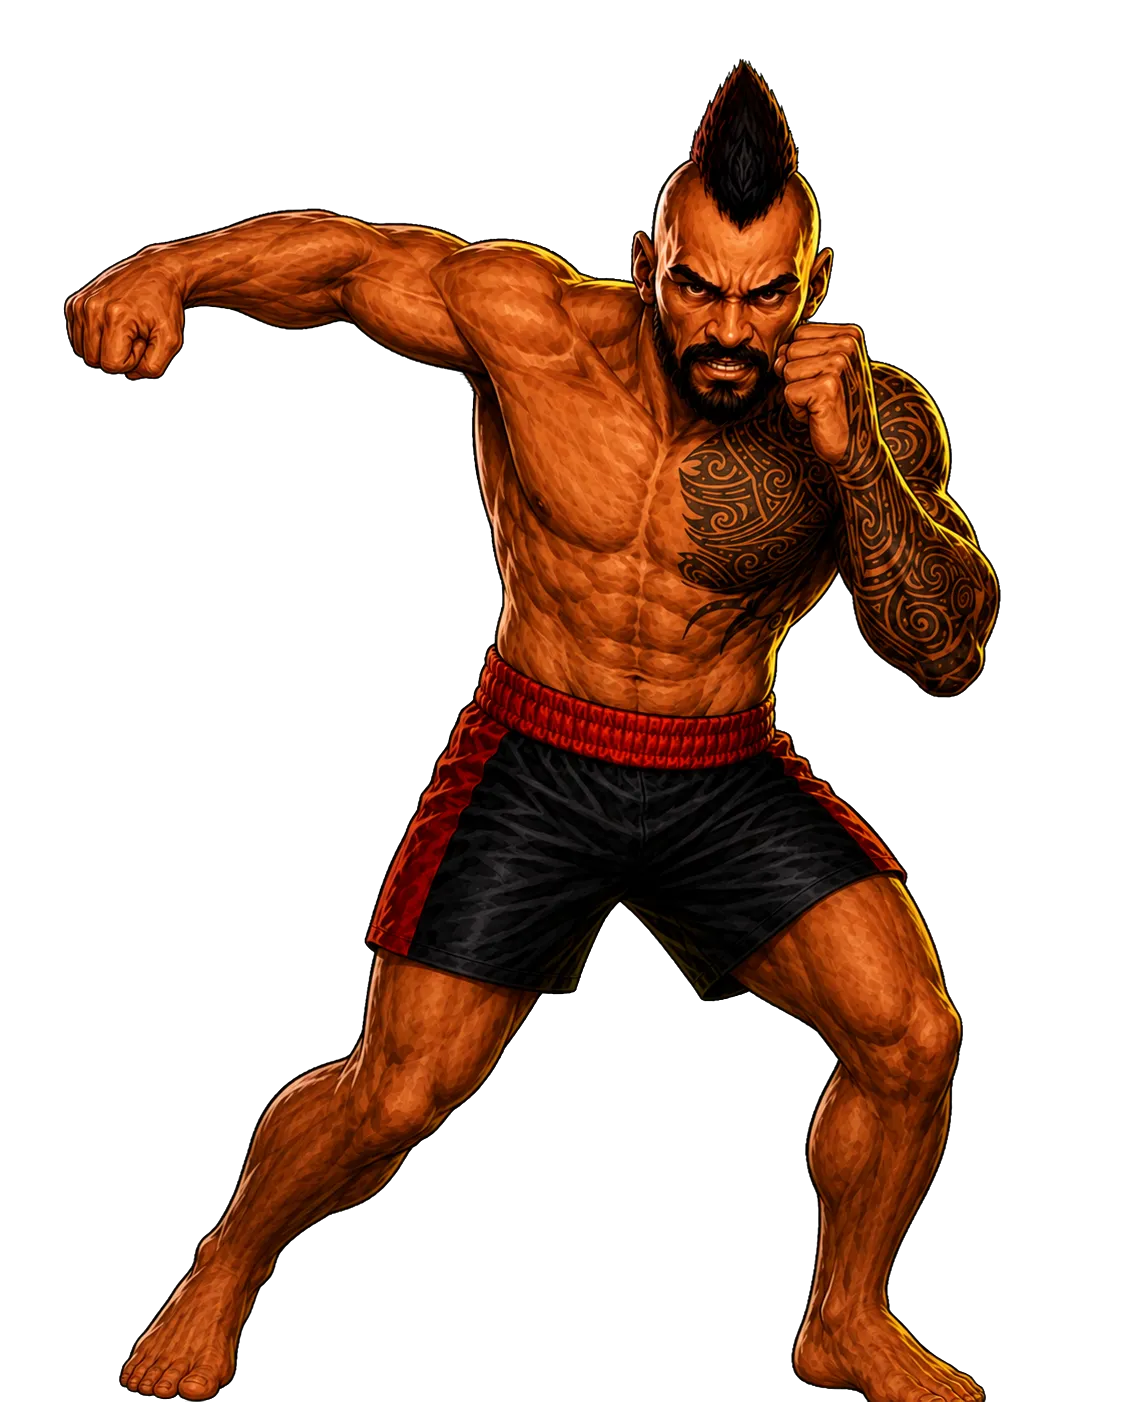
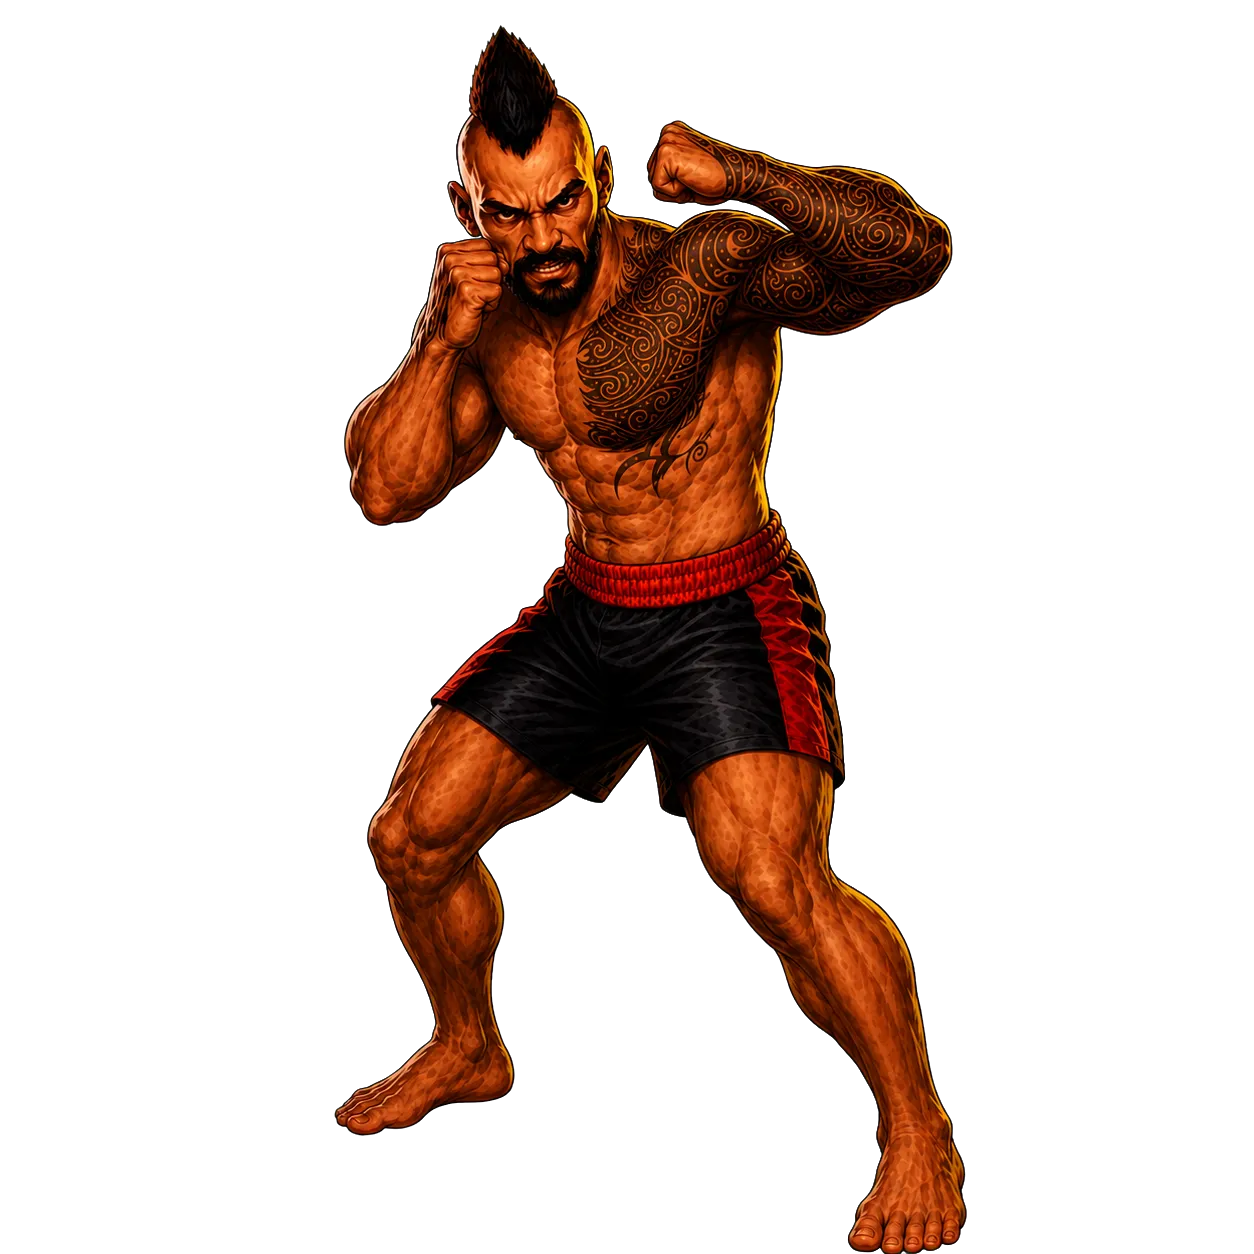
Add files via upload

diff --git a/src/Game.tsx b/src/Game.tsx
@@ -69,7 +69,7 @@ type KneeDepth = "near" | "far";
 
 const MAX_HEALTH = 100;
 const ROUND_TIME = 90;
-const GAME_VERSION = "0.40.0";
+const GAME_VERSION = "0.42.0";
 const asset = (path: string) => `${import.meta.env.BASE_URL}${path.replace(/^\//, "")}`;
 
 const POSE_ASSETS = [
@@ -1290,7 +1290,7 @@ export default function Home() {
                 : enemyPose === "windup-haymaker-right"
                   ? asset("/opponent-haymaker-right-windup.webp")
                   : enemyPose === "windup-haymaker-left"
-                    ? asset("/opponent-haymaker-left-windup.webp")
+                    ? asset("/opponent-haymaker-right-windup.webp")
                 : enemyPose === "attack-heavy" || enemyPose === "attack-heavy-left"
                   ? asset("/opponent-overhand-right.webp")
                   : enemyPose === "attack-haymaker-right" || enemyPose === "attack-haymaker-right-contact"

diff --git a/src/styles.css b/src/styles.css
@@ -237,8 +237,8 @@ button { font: inherit; touch-action:manipulation; -webkit-user-select:none; use
 .pose-attack-body { animation: opponentBody .36s cubic-bezier(.2,.8,.2,1); }
 .pose-windup-heavy { transform:translateX(-46%) translateY(-6%) rotate(-8deg) scale(.72); filter:brightness(.82) saturate(.9); transition:transform .2s cubic-bezier(.2,.75,.2,1),filter .15s; }
 .pose-windup-heavy-left { transform:translateX(-54%) translateY(-6%) rotate(8deg) scale(.72); filter:brightness(.82) saturate(.9); transition:transform .2s cubic-bezier(.2,.75,.2,1),filter .15s; }
-.pose-windup-haymaker-right { transform:translateX(-47%) translateY(-2%) rotate(-5deg) scale(.84); filter:brightness(.9); transition:transform .18s cubic-bezier(.2,.75,.2,1),filter .15s; }
-.pose-windup-haymaker-left { transform:translateX(-53%) translateY(-2%) rotate(5deg) scale(.84); filter:brightness(.9); transition:transform .18s cubic-bezier(.2,.75,.2,1),filter .15s; }
+.pose-windup-haymaker-right { transform:translateX(-50%) translateY(-1%) scale(.9); filter:brightness(.92); transition:transform .18s cubic-bezier(.2,.75,.2,1),filter .15s; }
+.pose-windup-haymaker-left { transform:translateX(-50%) translateY(-1%) scale(-.9,.9); filter:brightness(.92); transition:transform .18s cubic-bezier(.2,.75,.2,1),filter .15s; }
 .pose-attack-heavy { animation:heavyBomb .48s cubic-bezier(.08,.78,.12,1); }
 .pose-attack-heavy-left { animation:heavyBombLeft .48s cubic-bezier(.08,.78,.12,1); }
 .pose-attack-haymaker-right { animation:haymakerRightSweep .34s cubic-bezier(.06,.78,.12,1) both; }